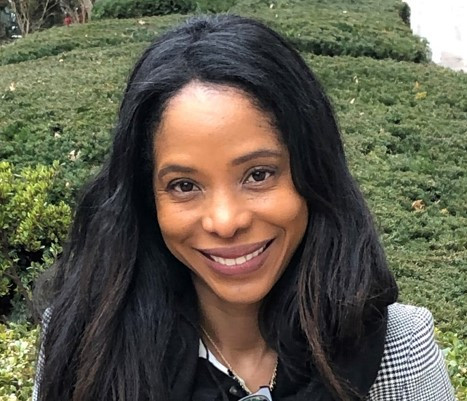
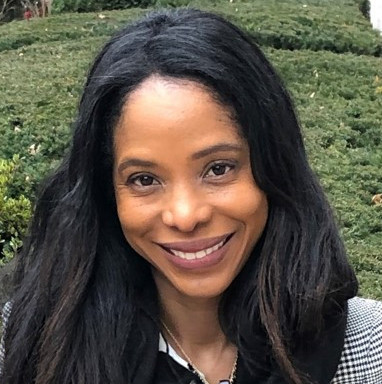
updated page routes and content

diff --git a/templates/layout.html b/templates/layout.html
@@ -38,11 +38,60 @@
     <div class="popup" id="vonetta">
         <div class="popup-content">
             <h2 class="section-header">Vonetta Storbakken</h2>
-            <p>Vonetta Storbakken is cofounder and executive director of Radical Living. She has lived in Bedford-Stuyvesant since she was 10 years old. As a child growing up in Bed-Stuy in the 1980s and ‘90s, she was a witness to urban decay and the eventual renewal. Vonetta earned a BA in Business from SUNY Stony Brook and an MS in Urban Environmental Systems Management from the Pratt Institute. She has gained these skills and experiences to engage, educate and equip the young people in her community.</p>
+            
+            <!-- <div class="popup-box">
+                <div class="row">
+                    <div class="col">
+                        <p>Vonetta Storbakken is cofounder and executive director of Radical Living. She has lived in Bedford-Stuyvesant since she was 10 years old. As a child growing up in Bed-Stuy in the 1980s and ‘90s, she was a witness to urban decay and the eventual renewal. Vonetta earned a BA in Business from SUNY Stony Brook and an MS in Urban Environmental Systems Management from the Pratt Institute. She has gained these skills and experiences to engage, educate and equip the young people in her community.</p>
+                    </div>
+
+                    <div class="col">
+                        <img src="/static/images/headshots/vonetta.jpeg" alt="" class="profile-pic">    
+                    </div>
+                </div>
+            </div> -->
+
+            
+
+            <div class="popup-box">
+                <p>Vonetta Storbakken is cofounder and executive director of Radical Living. She has lived in Bedford-Stuyvesant since she was 10 years old. As a child growing up in Bed-Stuy in the 1980s and ‘90s, she was a witness to urban decay and the eventual renewal. Vonetta earned a BA in Business from SUNY Stony Brook and an MS in Urban Environmental Systems Management from the Pratt Institute. She has gained these skills and experiences to engage, educate and equip the young people in her community.</p>
+                <img src="/static/images/headshots/vonetta.jpeg" alt="" class="profile-pic">    
+            </div>
+            
             <a href="#team" class="close">&times;</a>
         </div>
     </div>
 
+    <div class="popup" id="jason">
+        <div class="popup-content">
+            <h2 class="section-header">Jason Storbakken</h2>
+
+            <div class="popup-box">
+                <p>Jason Storbakken (he/him) is a storyteller, radical theologian, and peacebuilder. He has lived in Brooklyn for twenty years. Jason holds a Master of Divinity from Union Theological Seminary in the City of New York and a Doctor of Ministry from Boston University School of Theology. He is pastor at Manhattan Mennonite Fellowship and for more than a decade he has provided direction to the spiritual life at the Bowery Mission. Along with his wife, Vonetta, he cofounded two community organizations, Radical Living and Brooklyn Peace Center. Jason is author of Radical Spirituality: Repentance, Resistance, Revolution (Orbis), Bowery Mission: Grit and Grace on Manhattan’s Oldest Street (Plough), and Last Stop on the Z Train.</p>
+                <img src="/static/images/headshots/jason.png" alt="" class="profile-pic">   
+            </div>
+            
+            <a href="#team" class="close">&times;</a>
+        </div>
+    </div> 
+
+    <div class="popup" id="denise">
+        <div class="popup-content">
+            <h2 class="section-header">Denise Haggins</h2>
+
+            <div class="popup-box">
+                <p>I am grateful for the opportunity to use my gifts, talent, and time to honor God, by serving others in need.
+                    I have a heart for people whose dreams are covered in the dreariness, dangers, and disappointments of life. My heart’s desire is to empower people of all ages to look past their limitations, to open their hearts to God and let the Holy Spirit guide them to fulfill God’s promises for their lives. I am with Radical Living because I am a willing vessel God can use to contribute to the mission of this organization.
+                    After 35 years of working for local government, on behalf of the families and children of New York City, I retired July 2020. In progressively more responsible roles, I managed, trained, and mentored staff members. Some of the jobs I performed in the private sector are childcare worker, program manager and house manager, in therapeutic and theatrical settings. 
+                    I joined Calvary Fellowship AME Church (CFAMEC) in Brooklyn, NY, and Radical Living in 2016. I am humbled to serve as Christian Education Director at my church as well as being a member of the staff and board of Radical Living. CFAMEC hosts the RL Summer Youth Garden Program.
+                    Through all the activities, work, and ministries I do my best to share the love, hope, peace and joy that comes from having a personal relationship with God. I Pray the transforming power of the Holy Spirit will guide me to live daily in a way that gives God glory and is useful to someone.
+                </p>
+                <img src="/static/images/headshots/denise.png" alt="" class="profile-pic">   
+            </div>
+            
+            <a href="#team" class="close">&times;</a>
+        </div>
+    </div>
 
     <nav class="navbar navbar-expand-lg navbar-light">
 
@@ -67,12 +116,14 @@
                 <a href="/programs" class="nav-item dropbtn">Programs</a>
                 <div class="dropdown-content">
                     <a href="/programs#youth-program">Youth Program</a>
-                    <a href="/programs#youth-program">Urban Farm</a>
-                    <a href="/programs#youth-program">How Green</a>
+                    <a href="/programs#urban-farm">Urban Farm</a>
+                    <a href="/programs#how-green">How Green</a>
                 </div>
             </div>
 
             <a href="/highlights" class="nav-item">Highlights</a>
+
+            <a href="https://account.squarespace.com/" class="nav-item">Shop</a>
     
             <button><a href="https://www.paypal.com/donate?token=h5oD2nxB4a6DL_7-lUFoV5zXHHqm87SaJJ9hoiVMkZUOg_MxCBb8hf3FKdsa-kUWEm5p5eM9Z7gz471D" class="nav-item" id="donate">Donate</a></button>
 

diff --git a/templates/programs.html b/templates/programs.html
@@ -2,6 +2,42 @@
 
 {% block content %}
 
-<p>Welcome to the Programs Page</p>
+<h1 class="header">Partnership Programs</h1>
+
+<section id="youth-program">
+
+    <h2 class="section-header"><img src="/static/images/youth.png" alt="" class="section-img">Youth Program</h2>
+    <hr>
+
+    <p>Radical Living is dedicated to educating, engaging, and equipping the children and youth in Brooklyn, New York with the skills, knowledge and experiences to become transformational leaders. We do this in the context of urban farming and organizing for social justice. The youth participants learn how to grow plants from seeds, cultivate gardens, grow their own food and prepare meals with the ingredients they have grown.</p>
+
+</section>
+
+<section id="urban-farm">
+
+    <h2 class="section-header"><img src="/static/images/farm.png" alt="" class="section-img">Urban Farm</h2>
+    <hr>
+
+    <p>Radical Living has partnered with NYC Parks Green Thumb and community leaders in the Bedford-Stuyvesant/Weeksville community to develop a large tract of land into an urban farm. The farm will provide food to the local food pantry & soup kitchen at Calvary Fellowship AME, serve as the space where Radical Living hosts workshops for community residents, and serve as the flagship site for the Radical Living Youth Program.</p>
+
+</section>
+
+<section id="how-green">
+
+    <h2 class="section-header"><img src="/static/images/worship.png" alt="" class="section-img">HOW Green!</h2>
+    <hr>
+
+    <p>HOW Green! <b>(Houses of Worship Greening and Sustainability Initiative)</b> was formed out of our executive director Vonetta Storbakken’s <a href="https://www.pratt.edu/tiny_mce/plugins/imagemanager/files/V_Storbakken_Final_Paper.pdf">master’s thesis</a> at Pratt Institute.</p>
+
+    <p>The HOW Green! initiative works alongside faith-based organizations (FBOs), such as churches, mosques, and synagogues, in Bedford-Stuyvesant and central Brooklyn, to evaluate the FBO’s ecological context and its current practices that affect the health of the environment and the congregants. After an initial assessment, the Radical Living team serves to further educate and equip congregational leaders on the importance of social and environmental sustainability via workshops and teachings from sacred texts.</p>
+    
+    <p>We partner with houses of worship (i.e., churches, mosques, synagogues, etc.) in Bedford-Stuyvesant and central Brooklyn neighborhoods for several reasons. People of color are disproportionately impacted by economic, health and environmental disparities, yet Brooklyn is known as the Borough of Churches. Radical Living recognizes that houses of worship are strategic stakeholders and by partnering with them in deep, meaningful ways we are able to work together to make significant impacts in our community!</p>
+    
+    <p>Current HOW Green! partners include <a href="http://calvaryfellowshipame.org/">Calvary Fellowship AME</a>, <a href="https://www.facebook.com/pg/The-Pentecostal-House-of-Prayer-203-630127217057106/about/">the Pentecostal House of Prayer</a> , and <a href="https://www.facebook.com/johnwesley260/">John Wesley UMC</a>.</p>
+    
+
+
+
+</section>
 
 {% endblock %}

diff --git a/static/main.css b/static/main.css
@@ -26,6 +26,14 @@ html {
     justify-content: space-between;
 }
 
+#highlights *{
+    display: flex;
+    flex-wrap: inherit;
+    align-items: center;
+    justify-content: space-between;
+    opacity: 1;
+}
+
 #logo{
     height:40px;
     opacity: 1;
@@ -35,7 +43,7 @@ html {
     font-family: 'Barriecito', cursive;
     /* background-color: #ded2aa; */
     color: #fbe609;
-    font-size: 21px;
+    font-size: 30px;
 }
 
 .nav-group{
@@ -242,26 +250,36 @@ h1{
 
 .typewriter p {
     overflow: hidden; /* Ensures the content is not revealed until the animation */
-    border-right: .15em solid orange; /* The typwriter cursor */
+    border-right: .15em solid #fbe609; /* The typwriter cursor */
     white-space: nowrap; /* Keeps the content on a single line */
     margin: 0 auto; /* Gives that scrolling effect as the typing happens */
     letter-spacing: .15em; /* Adjust as needed */
     animation: 
       typing 3.5s steps(40, end),
       blink-caret .75s step-end infinite;
+    font-family: 'Barriecito', cursive;
+    /* background-color: #ded2aa; */
+    color: #fbe609;
+    font-size: 30px;
   }
   
   /* The typing effect */
   @keyframes typing {
     from { width: 0 }
-    to { width: 100% }
+    to { width: 50% }
   }
   
   /* The typewriter cursor effect */
   @keyframes blink-caret {
     from, to { border-color: transparent }
-    50% { border-color: orange; }
+    50% { border-color: #fbe609; }
   }
+
+.typewriter{
+    width: 100%;
+    margin-top: -33%;
+    margin-left: 38%;
+}
 
 /* .profile-pic{
     margin-left: 25%;
@@ -298,11 +316,40 @@ h1{
     z-index: 500;
 }
 
+.popup *{
+    background-color: #ffffff;
+}
+
+.popup img{
+    padding: 0% 2% 0% 2%;
+    opacity: 1;
+}
+
+.popup .section-header{
+    background-color: #ffffff;
+    color: #67b983;
+    display: flex;
+    justify-content: center;
+    padding: 25px 0px 25px 0px;
+    font-size: 40px;
+}
+
+.popup p{
+    background-color: #ffffff;
+    display: flex;
+    justify-content: left;
+    text-align: left;
+    margin-left: 55px;
+    margin-right: 55px;
+    font-size: 18px;
+}
+
+
 .popup .popup-content {
-    width: 60vw;
+    width: 80vw;
     height: 80vh;
     margin-top: 100px;
-    left: 20%;
+    left: 10%;
     position: relative;
     border: 5px solid white;
     background-color: #fff;
@@ -314,7 +361,7 @@ h1{
     top: 5px;
     right: 5px;
     border-radius: 50%;
-    color: black;
+    color: #67b983;
     text-decoration: none;
     line-height: 0;
     padding: 9px 0 11px;
@@ -335,6 +382,11 @@ h1{
 
 .popup-content{
     overflow-y: scroll;
+}
+
+.popup-box{
+    display: flex;
+    justify-content: space-between;
 }
 
 
@@ -372,7 +424,18 @@ h1{
 .speakers img {
     padding: 20px;
     border-radius: 50%;
-    width: 200px;
-    height: 200px;
+    width: 300px;
+    height: 300px;
     opacity: 1;
+}
+
+#youth-program p, #urban-farm p, #how-green p {
+    color: white;
+    font-size: 25px;
+    padding-bottom:10px;
+}
+
+.highlights-media{
+    max-width: 100%;
+    padding-bottom: 10%;
 }

diff --git a/templates/highlights.html b/templates/highlights.html
@@ -1,0 +1,32 @@
+{% extends "layout.html" %}
+
+{% block content %}
+
+<h1 class="header">Highlights</h1>
+
+<div id="highlights">
+
+    <div class="row">
+        <div class="col">
+            <iframe class="highlights-media" src="https://radical-living.org/wp-content/uploads/2020/04/BringThePeace_-Radical-Living-Gardening.mp4" frameborder="0"></iframe>
+        </div>
+
+        <div class="col">
+            <img class="highlights-media" src="/static/images/rl-image1.png" alt="">
+        </div>
+    </div>
+
+    <div class="row">
+        <div class="col">
+            <img src="/static/images/rl-image2.png" class="highlights-media"  alt="">
+        </div>
+
+        <div class="col">
+            <img src="/static/images/rl-image3.png" class="highlights-media"  alt="">
+        </div>
+    </div>
+
+    
+</div>
+
+{% endblock %}

diff --git a/templates/index.html b/templates/index.html
@@ -7,8 +7,8 @@
 <img src="/static/images/rl-image3.png" alt="" id="index-img-3">
 <!-- <img src="/static/images/center-landing.png" alt="" id="center-img"> -->
 
-<div class="typewriter">
+<!-- <div class="typewriter">
     <p>Welcome to Radical Living!</p>
-</div>
+</div> -->
 
 {% endblock %}
